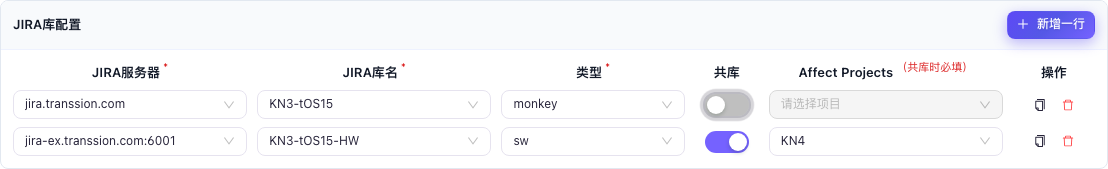
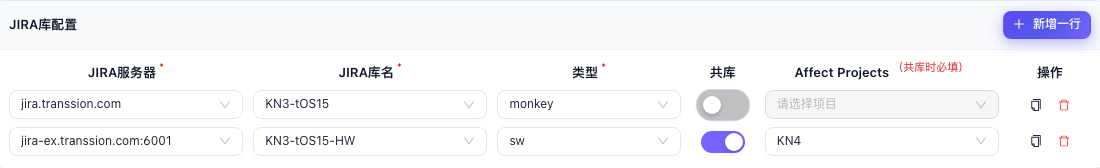
fix: align JIRA validation and browser coverage

diff --git a/src/lib/jiraProject.ts b/src/lib/jiraProject.ts
@@ -61,8 +61,8 @@ export const copyJiraProjectConfig = (config: JiraProjectConfig): JiraProjectCon
 
 const JIRA_REQUIRED_FIELDS: Array<{ key: 'server' | 'projectKey' | 'type'; label: string }> = [
   { key: 'server', label: 'JIRA服务器' },
-  { key: 'projectKey', label: 'JIRA项目' },
-  { key: 'type', label: 'JIRA类型' },
+  { key: 'projectKey', label: 'JIRA库名' },
+  { key: 'type', label: '类型' },
 ]
 
 export const validateJiraProjectRows = (rows: unknown): JiraProjectValidationError[] => {
